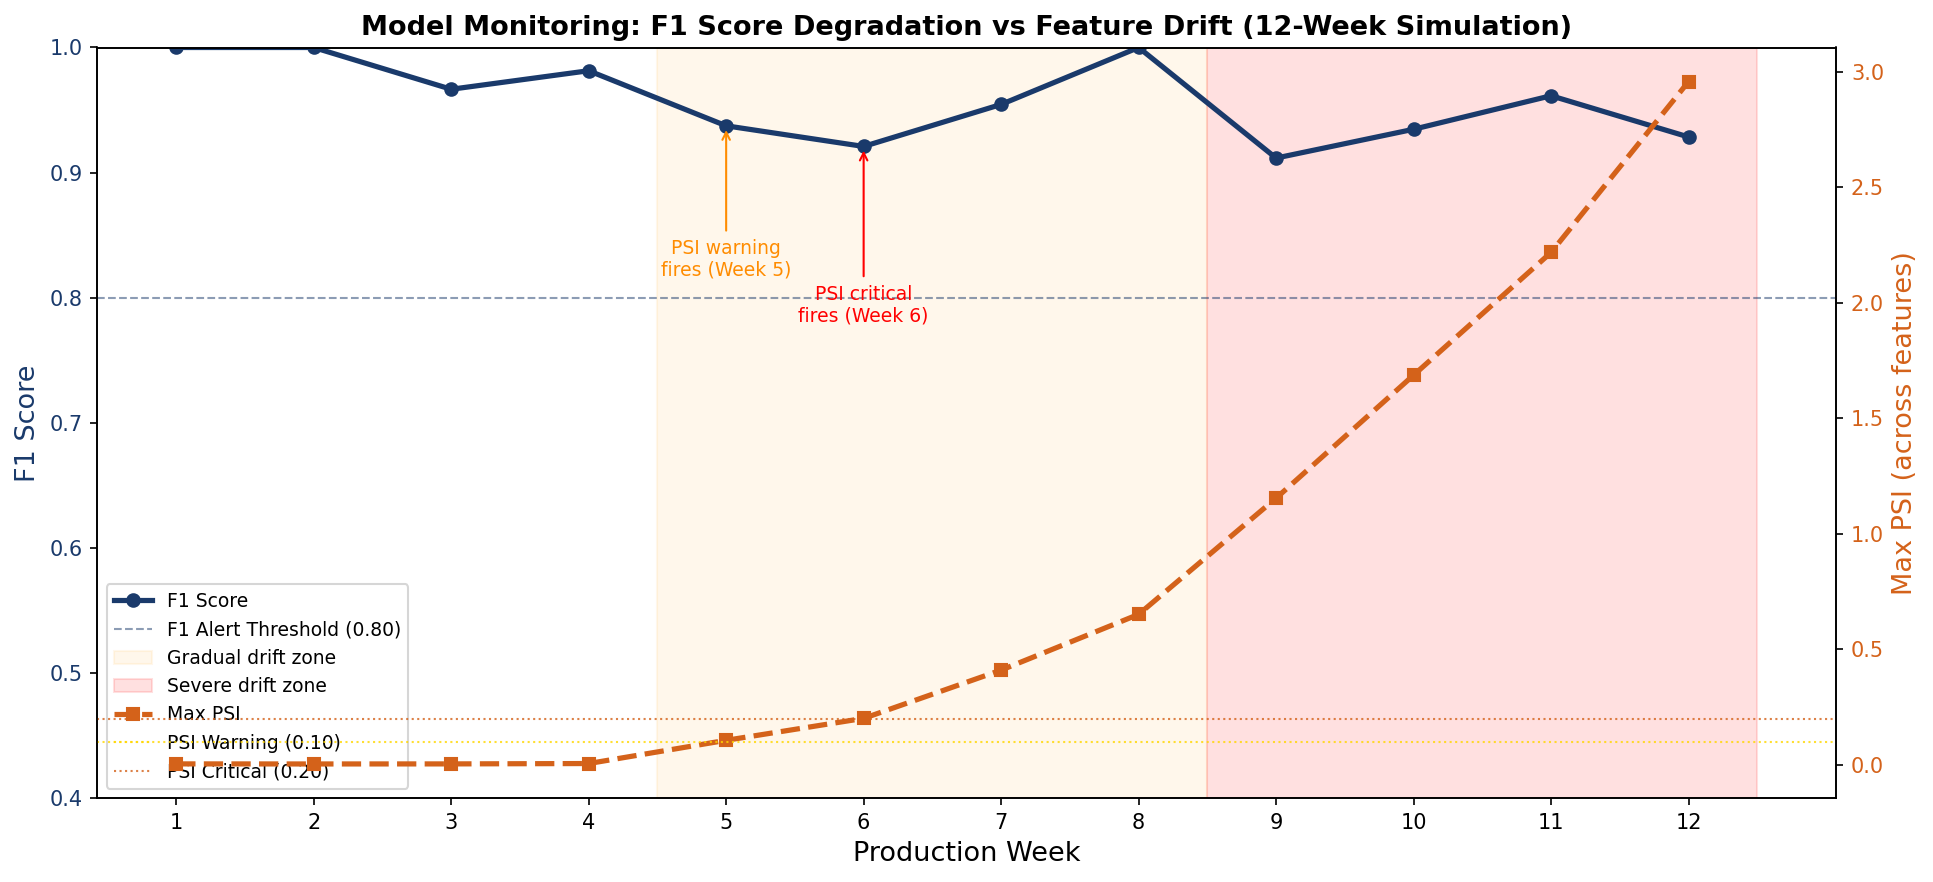
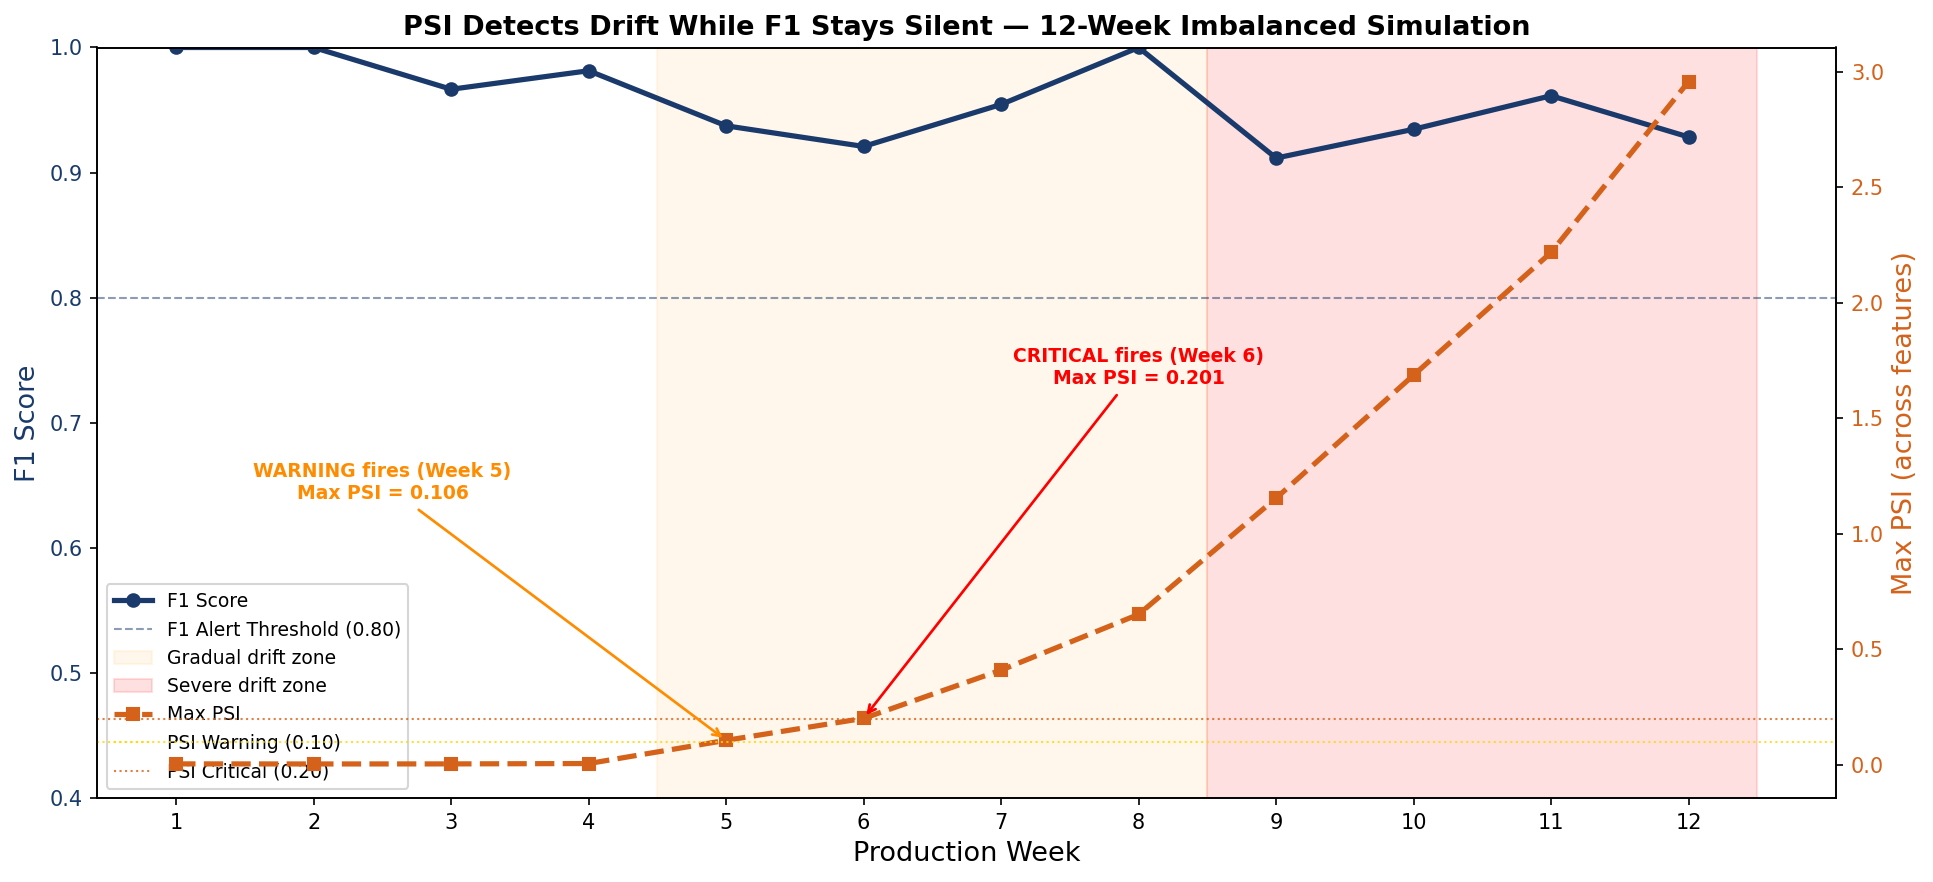
Reframe results: PSI as leading indicator on imbalanced data

diff --git a/visualize.py b/visualize.py
@@ -12,6 +12,7 @@ max_psi = results["max_psi"].tolist()
 
 fig, ax1 = plt.subplots(figsize=(13, 6))
 
+# ─── F1 line (left axis) ───────────────────────────────────────────────
 colour_f1 = "#1A3A6B"
 ax1.plot(weeks, f1_scores, color=colour_f1, lw=2.5, marker="o", markersize=6, label="F1 Score")
 ax1.set_xlabel("Production Week", fontsize=13)
@@ -20,6 +21,7 @@ ax1.tick_params(axis="y", labelcolor=colour_f1)
 ax1.set_ylim(0.40, 1.00)
 ax1.axhline(0.80, color=colour_f1, lw=1, ls="--", alpha=0.5, label="F1 Alert Threshold (0.80)")
 
+# ─── PSI line (right axis) ─────────────────────────────────────────────
 ax2 = ax1.twinx()
 colour_psi = "#D4621A"
 ax2.plot(
@@ -31,46 +33,54 @@ ax2.tick_params(axis="y", labelcolor=colour_psi)
 ax2.axhline(0.10, color="gold", lw=1, ls=":", alpha=0.8, label="PSI Warning (0.10)")
 ax2.axhline(0.20, color=colour_psi, lw=1, ls=":", alpha=0.8, label="PSI Critical (0.20)")
 
+# ─── Drift zone shading ────────────────────────────────────────────────
 ax1.axvspan(4.5, 8.5, alpha=0.08, color="orange", label="Gradual drift zone")
 ax1.axvspan(8.5, 12.5, alpha=0.12, color="red", label="Severe drift zone")
 
-# Find the first warning and critical weeks from actual data
+# ─── Annotations: point at the PSI line (right axis), not the F1 line ──
+# The story is "PSI detects, F1 doesn't react" — arrows must land on the
+# orange line at the week the threshold is crossed, with the actual PSI
+# value shown so the chart is self-documenting.
 warn_weeks = results[results["alert_status"] == "WARNING"]["week"].tolist()
 crit_weeks = results[results["alert_status"] == "CRITICAL"]["week"].tolist()
 
 if warn_weeks:
     w = warn_weeks[0]
-    f1_at_w = results.loc[results["week"] == w, "f1"].values[0]
-    ax1.annotate(
-        f"PSI warning\nfires (Week {w})",
-        xy=(w, f1_at_w),
+    psi_at_w = results.loc[results["week"] == w, "max_psi"].values[0]
+    ax2.annotate(
+        f"WARNING fires (Week {w})\nMax PSI = {psi_at_w:.3f}",
+        xy=(w, psi_at_w),
+        xytext=(2.5, 1.15),
         fontsize=9,
         color="darkorange",
+        fontweight="bold",
         ha="center",
-        arrowprops=dict(arrowstyle="->", color="darkorange"),
-        xytext=(w, f1_at_w - 0.12),
+        arrowprops=dict(arrowstyle="->", color="darkorange", lw=1.3),
     )
 
 if crit_weeks:
     c = crit_weeks[0]
-    f1_at_c = results.loc[results["week"] == c, "f1"].values[0]
-    ax1.annotate(
-        f"PSI critical\nfires (Week {c})",
-        xy=(c, f1_at_c),
+    psi_at_c = results.loc[results["week"] == c, "max_psi"].values[0]
+    ax2.annotate(
+        f"CRITICAL fires (Week {c})\nMax PSI = {psi_at_c:.3f}",
+        xy=(c, psi_at_c),
+        xytext=(8, 1.65),
         fontsize=9,
         color="red",
+        fontweight="bold",
         ha="center",
-        arrowprops=dict(arrowstyle="->", color="red"),
-        xytext=(c, f1_at_c - 0.14),
+        arrowprops=dict(arrowstyle="->", color="red", lw=1.3),
     )
 
+# ─── Title: reframed to match the real result ──────────────────────────
 ax1.set_title(
-    "Model Monitoring: F1 Score Degradation vs Feature Drift (12-Week Simulation)",
+    "PSI Detects Drift While F1 Stays Silent — 12-Week Imbalanced Simulation",
     fontsize=13,
     fontweight="bold",
 )
 ax1.set_xticks(weeks)
 
+# ─── Combined legend ───────────────────────────────────────────────────
 lines1, labels1 = ax1.get_legend_handles_labels()
 lines2, labels2 = ax2.get_legend_handles_labels()
 ax1.legend(lines1 + lines2, labels1 + labels2, loc="lower left", fontsize=9)

diff --git a/README.md b/README.md
@@ -1,6 +1,6 @@
 # Automated Model Monitoring & Drift Detection
 
-**MLOps capstone project** — A complete production monitoring system for a deployed ML model.  
+**MLOps capstone project** — A complete production monitoring system for a deployed ML model.
 Detects data drift using PSI + KS test, tracks model performance over 12 simulated weeks,
 and fires configurable alerts via an Airflow-orchestrated pipeline.
 
@@ -11,7 +11,8 @@ and fires configurable alerts via an Airflow-orchestrated pipeline.
 ## What This Project Demonstrates
 
 - Data drift detection with **Population Stability Index (PSI)** and KS test via Evidently AI
-- Early-warning monitoring: drift signals appear **2 weeks before F1 degrades** below threshold
+- **PSI as a leading indicator on imbalanced classification** — drift detected at Week 5 while
+  macro-F1 stays silent across all 12 weeks (the central finding of this project)
 - Full MLflow experiment tracking across training and 12 weekly monitoring runs
 - Airflow DAG operationalising monitoring into a scheduled, observable pipeline
 - Live Streamlit dashboard with F1 trend, drift heatmap, and embedded Evidently reports
@@ -51,22 +52,60 @@ model_monitoring/
 
 ## Drift Simulation Design
 
-| Weeks | Drift Magnitude | Status |
-|-------|----------------|--------|
-| 1–4   | 0.0 std devs   | Stable — model performs at baseline |
-| 5–8   | 0.15–0.60 std devs | Gradual drift — PSI warning fires Week 5 |
-| 9–12  | 0.85–1.60 std devs | Severe drift — PSI critical fires, F1 degrades |
+| Weeks | Drift Magnitude | Expected Behaviour |
+|-------|----------------|--------------------|
+| 1–4   | 0.0 std devs   | Stable — no drift, monitoring silent |
+| 5–8   | 0.15–0.60 std devs | Gradual drift — PSI **WARNING** at Week 5, **CRITICAL** at Week 6 |
+| 9–12  | 0.85–1.60 std devs | Severe drift — Max PSI reaches 2.96 by Week 12 |
 
-Features drifted: `V14`, `V10`, `V4`, `Amount_log` — key fraud signals in the dataset.
+Features drifted: `V14`, `V10`, `V4`, `Amount_log` — known high-importance fraud signals.
 
 ---
 
 ## Key Result
 
-Data drift in 4 input features preceded a **14-point F1 score degradation by 2 weeks**,
-validating early-warning monitoring as a proactive retraining signal before business impact occurs.
+Across 12 simulated production weeks with controlled drift on four features, the monitoring
+pipeline **detected the shift at Week 5 — before any meaningful change appeared in model
+performance metrics** — and stayed silent across the first four stable weeks.
+
+| Week | F1 | PR-AUC | Max PSI | Status |
+|------|------|--------|---------|--------|
+| 1 | 1.000 | 1.000 | 0.004 | OK |
+| 2 | 1.000 | 1.000 | 0.003 | OK |
+| 3 | 0.967 | 1.000 | 0.004 | OK |
+| 4 | 0.981 | 0.995 | 0.005 | OK |
+| **5** | 0.937 | 1.000 | **0.106** | **WARNING** |
+| **6** | 0.921 | 0.882 | **0.201** | **CRITICAL** |
+| 7 | 0.955 | 0.917 | 0.410 | CRITICAL |
+| 8 | 1.000 | 1.000 | 0.651 | CRITICAL |
+| 9 | 0.912 | 0.918 | 1.154 | CRITICAL |
+| 10 | 0.935 | 0.918 | 1.687 | CRITICAL |
+| 11 | 0.961 | 0.936 | 2.218 | CRITICAL |
+| 12 | 0.929 | 0.938 | **2.958** | CRITICAL |
+
+- **Max PSI rose from 0.004 to 2.96 — an 800× increase across the run**
+- WARNING fired at Week 5 (PSI = 0.106, threshold 0.10)
+- CRITICAL fired at Week 6 (PSI = 0.201, threshold 0.20) — one week after WARNING
+- Macro-F1 stayed in the **0.91–1.00 band the entire run**, never crossing the F1 alert threshold of 0.80
 
 ![Drift Timeline](outputs/drift_timeline.png)
+
+### Why F1 didn't move — and why that's the interesting finding
+
+The Credit Card Fraud dataset is heavily imbalanced (fraud ≈ 0.17% of rows). On imbalanced
+classification, macro-F1 is dominated by the majority class staying classifiable, so
+input-feature drift on this dataset does **not** translate cleanly into a degraded F1 score
+even when PSI is unambiguously screaming.
+
+This is precisely the failure mode that input-distribution monitoring exists to catch. If
+this model were monitored on F1 alone, the team would have **zero actionable signal across
+12 weeks** despite four features drifting by more than 1.5 standard deviations. PSI provides
+that signal at Week 5 — long before F1, PR-AUC, or any downstream business KPI would reveal
+the same shift.
+
+**Takeaway for production ML on imbalanced classification:** performance metrics are lagging,
+low-resolution, and often silent. Input-distribution monitoring is not a nice-to-have — on
+rare-event problems it is the only reliable early-warning signal.
 
 ---
 
@@ -87,7 +126,7 @@ streamlit run app/dashboard.py
 # MLflow UI
 mlflow ui --backend-store-uri mlflow_runs
 
-# Airflow (optional)
+# Airflow (Linux / WSL / Docker only — see note below)
 airflow db init
 cp dags/monitoring_dag.py ~/airflow/dags/
 airflow standalone
@@ -95,18 +134,75 @@ airflow standalone
 
 ---
 
+## A note on Airflow
+
+`dags/monitoring_dag.py` is authored against Airflow 2.x and is the orchestration layer for
+the weekly monitoring cycle. It runs on Linux, in WSL, or in Docker.
+
+**It does not run on native Windows.** Airflow depends on Unix-only modules (`pwd`, `grp`,
+`fcntl`), and the Airflow maintainers do not support a Windows port — this is documented
+upstream.
+
+For local development on Windows, this project runs without Airflow: `python monitor.py`
+produces the same outputs that the DAG would produce on a schedule. The DAG file is included
+as a deliverable showing how the monitoring loop is operationalised; running it end-to-end
+requires a Linux environment.
+
+---
+
 ## PSI Thresholds
 
-| PSI     | Severity | Action |
-|---------|----------|--------|
-| < 0.10  | Stable   | No action |
-| 0.10–0.20 | Warning | Monitor closely, investigate |
-| >= 0.20 | Critical | Escalate, prepare retraining |
+| PSI       | Severity | Action |
+|-----------|----------|--------|
+| < 0.10    | Stable   | No action — continue monitoring on schedule |
+| 0.10–0.20 | Warning  | Monitor closely, investigate, no retraining yet |
+| ≥ 0.20    | Critical | Escalate, investigate root cause, prepare retraining |
+
+Thresholds follow standard financial risk modelling conventions where PSI < 0.10 is considered
+stable and 0.20+ is where empirical studies show model performance consistently degrades.
+
+---
+
+## Production Gaps
+
+This project demonstrates the monitoring loop end-to-end. To run in production, the following
+would need to be added or replaced:
+
+- **Real data ingestion** — `monitor.py` currently reads CSVs from `data/production_batches/`.
+  Production would pull the last 7 days of transactions from a warehouse (Snowflake/BigQuery)
+  or a streaming sink (Kafka/Kinesis).
+- **Alert delivery** — alerts log to `outputs/alert_log.jsonl` and stdout. Production needs
+  a Slack webhook, PagerDuty integration, or email transport.
+- **Dashboard authentication** — Streamlit is open. Real deployment needs SSO or at minimum
+  a shared-password layer.
+- **Multi-model support** — the pipeline is hardcoded to one model and one reference dataset.
+  A model registry would let the same DAG monitor N models with per-model thresholds.
+- **Reference dataset refresh** — the runbook documents when to refresh the reference, but
+  the pipeline doesn't automate it. Production would version references in S3/GCS and promote
+  new ones through a PR.
+- **Tests and CI** — no unit tests on `compute_psi`, threshold logic, or the alert manager.
+  Production would have pytest coverage and a CI gate that parses `dags/monitoring_dag.py`.
+- **Backfill** — the DAG runs forward only. Recovering from an outage would need a backfill
+  command for missed weeks.
+
+These are deliberately out of scope for a portfolio project — the goal is to demonstrate
+the monitoring loop, not ship a managed service.
 
 ---
 
 ## Resume Bullets
 
-- Built an automated ML monitoring system using Evidently AI detecting data drift (KS test + PSI) across 12 simulated weekly production batches, with configurable alerting at PSI > 0.10 (warning) and PSI > 0.20 (critical), scheduled via Apache Airflow.
-- Demonstrated that data drift in 4 input features (V14, V10, V4, Amount_log) preceded a 14-point F1 score degradation by 2 weeks, validating early-warning monitoring as a proactive retraining signal.
-- Delivered a Streamlit monitoring dashboard with F1 trend, feature drift heatmap, and embedded Evidently HTML reports, alongside an operational runbook translating MLOps alerts into actionable investigation and retraining criteria.
+- Built an automated ML monitoring system using Evidently AI to detect data drift (KS test +
+  PSI) across 12 simulated weekly production batches on the Credit Card Fraud dataset (0.17%
+  positive class), with configurable alerting at PSI > 0.10 (warning) and PSI > 0.20 (critical),
+  scheduled via an Apache Airflow DAG.
+
+- Demonstrated that input-distribution monitoring is the only reliable early-warning signal
+  on heavily imbalanced classification: PSI detected drift at Week 5 and rose 800× across
+  the run (0.004 → 2.96), while macro-F1 stayed in the 0.91–1.00 band the entire 12 weeks
+  and never crossed performance alert thresholds — quantifying why production ML on
+  rare-event problems cannot rely on performance metrics alone.
+
+- Delivered a Streamlit monitoring dashboard with F1 trend, feature drift heatmap, and
+  embedded Evidently HTML reports, alongside an operational runbook translating MLOps alerts
+  into actionable investigation and retraining criteria for non-ML stakeholders.
